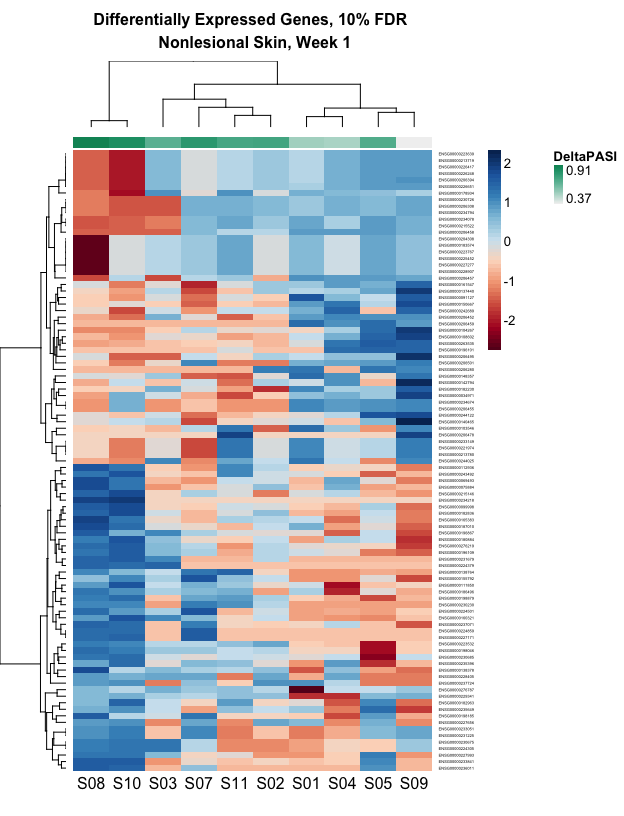
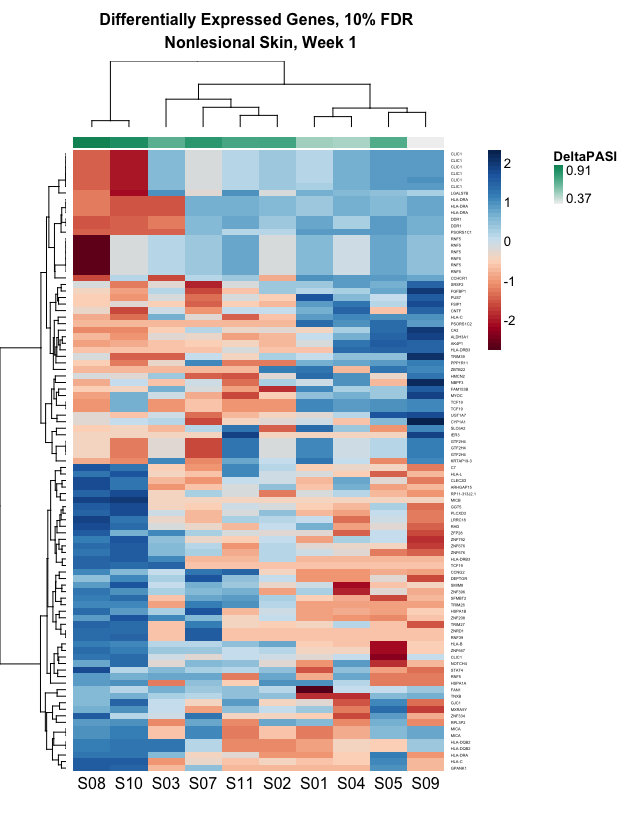
touch up

diff --git a/Scripts/Response_Script.md b/Scripts/Response_Script.md
@@ -298,7 +298,8 @@ ggplot(df, aes(Sample, Weight, fill = Tissue)) +
   theme_bw() + 
   theme(axis.text.x = element_text(angle = 45, hjust = 1),
         plot.title = element_text(hjust = .5),
-        legend.justification = c(0, 1), legend.position = c(0, 1))
+        legend.justification = c(0.01, 0.99), 
+        legend.position = c(0.01, 0.99))
 ```
 
 <p align='center'>
@@ -420,9 +421,9 @@ des <- model.matrix(~ 0 + Subject:Tissue + Tissue:Time + Tissue:Time:DeltaPASI,
 des <- des[, !grepl('wk00', colnames(des))]
 colnames(des) <- c(paste(paste0('S', 1:10), 
                          rep(unique(pheno$Tissue), each = 10), sep = '.'),
-                   paste(rep(unique(pheno$Tissue), times = 2),
+                   paste(unique(pheno$Tissue),
                          rep(c('wk01', 'wk12'), each = 3), sep = '.'),
-                   paste(rep(unique(pheno$Tissue), times = 2), 
+                   paste(unique(pheno$Tissue), 
                        rep(c('Delta01', 'Delta12'), each = 3), 
                        'Response', sep = '.'))
 ```
@@ -465,9 +466,9 @@ df <- expand.grid(Tissue  = c('Blood', 'Lesional', 'Nonlesional'),
 # Populate DEgenes column
 for (i in 1:nrow(df)) {
   df$DEgenes[i] <- fread(paste0('./Results/Response/RNAseq/',
-                         paste(df[i, 1], df[i, 2], 'Response.txt', sep = '.'))) %>%
-                     summarise(sum(q.value < 0.1)) %>%
-                     as.numeric()
+                                paste(df[i, 1], df[i, 2], 'Response.txt', sep = '.'))) %>%
+    summarise(sum(q.value < 0.1)) %>%
+    as.numeric()
 }
 
 # Check table
@@ -504,7 +505,8 @@ ggplot(df, aes(Time, DEgenes, fill = Tissue)) +
        y = 'Differentially Expressed Genes (10% FDR)') + 
   theme_bw() + 
   theme(plot.title = element_text(hjust = .5),
-        legend.justification = c(1, 1), legend.position = c(1, 1))
+        legend.justification = c(0.99, 0.99), 
+        legend.position = c(0.99, 0.99))
 ```
 
 <p align='center'>
@@ -527,8 +529,8 @@ To make sure *p*-values are well behaved, we examine QQ plots of results at each
 par(mfrow = c(3, 3))
 for (i in 1:9) {
   top <- fread(paste0('./Results/Response/RNAseq/',
-               paste(df[i, 1], df[i, 2], 'Response.txt', sep = '.')))
-  qq(top$p.value, cex = 0.25, main = paste('QQ Plot: \n', df[i, 1], df[i, 2]))
+                      paste(df[i, 1], df[i, 2], 'Response.txt', sep = '.')))
+  qq(top$p.value, cex = 0.25, main = paste('QQ Plot:\n', df[i, 1], df[i, 2]))
 }
 ```
 
@@ -536,7 +538,7 @@ for (i in 1:9) {
 <img src="Response_Script_files/figure-markdown_github/qq-1.png" style="display: block; margin: auto;" />
 </p>
 
-With the exception of nonlesional skin at week 1, these plots suggest a reasonable distribution of *p*-values across the various tissue-times examined in our study. In fact, taken together with our relatively low number of genes declared differentially expressed at 10% FDR, these QQ plots indicate that there are probably a large number of false negatives among our results. The early deviation of observed from expected *p*-values in nonlesional skin at week 1 is probably due to the small sample size. A larger study would likely identify far more genes associated with response and iron out the early wobbles in these QQ plots.
+With the exception of lesional skin at baseline and nonlesional skin at week 1, these plots suggest a reasonable distribution of *p*-values across the various tissue-times examined in our study. In fact, taken together with our relatively low number of genes declared differentially expressed at 10% FDR, these QQ plots indicate that there are probably a large number of false negatives among our results. The early deviation of observed from expected *p*-values in some contrasts is probably due to the small sample size. A larger study would likely identify far more genes associated with response and iron out the early wobbles in these QQ plots.
 
 Spearman Correlations
 ---------------------
@@ -551,9 +553,9 @@ cmat <- matrix(nrow = 18, ncol = 18,
 for (i in 1:18) {
   for (j in 1:18) {
     cmat[i, j] <- fread(paste0('./Results/Response/RNAseq/',
-                       paste(df[i, 1], df[i, 2], 'Response.txt', sep = '.'))) %>%
+                               paste(df[i, 1], df[i, 2], 'Response.txt', sep = '.'))) %>%
       inner_join(fread(paste0('./Results/Response/RNAseq/',
-                       paste(df[j, 1], df[j, 2], 'Response.txt', sep = '.'))),
+                              paste(df[j, 1], df[j, 2], 'Response.txt', sep = '.'))),
                  by = 'EnsemblID') %>%
       summarise(cor(Idx.x, Idx.y)) %>%
       as.numeric()
@@ -570,10 +572,10 @@ corrplot(cmat, type = 'lower', tl.cex = 0.75, tl.srt = 45, pch.cex = 0.5,
 <img src="Response_Script_files/figure-markdown_github/spearman-1.png" style="display: block; margin: auto;" />
 </p>
 
-We find here that gene lists, which are ordered by average linkage hierarchical clustering based on their pairwise Pearson distances, are associated with all and only the other gene lists of the same tissue type. Correlations across tissue types are minimal, although we do detect some correlation between gene rankings from lesional and nonlesional skin samples.
+We find here that gene lists, which are ordered by average linkage hierarchical clustering based on their pairwise Spearman distances, are strongly associated with gene lists of the same tissue type. Correlations across tissue types are minimal, although we do detect some relationship between gene rankings from lesional and nonlesional skin samples.
 
-Blood, baseline
----------------
+Nonlesional Skin, Week 1
+------------------------
 
 Let's take a closer look at week 1 results for nonlesional skin, since this is where signal is apparently the strongest. These are the top ten genes associated with biologic response in that contrast.
 
@@ -633,11 +635,11 @@ mat <- as_data_frame(mat) %>%
   inner_join(top, by = 'EnsemblID') %>%
   filter(q.value <= 0.1) %>%
   select(grep('Nonlesional.wk01', colnames(mat)),
-         EnsemblID)
+         GeneSymbol)
 deg <- mat %>%
-  select(-EnsemblID) %>%
+  select(-GeneSymbol) %>%
   as.matrix()
-rownames(deg) <- mat$EnsemblID
+rownames(deg) <- mat$GeneSymbol
 colnames(deg) <- gsub('.Nonlesional.wk01', '', colnames(deg))
 
 # Plot heatmap
